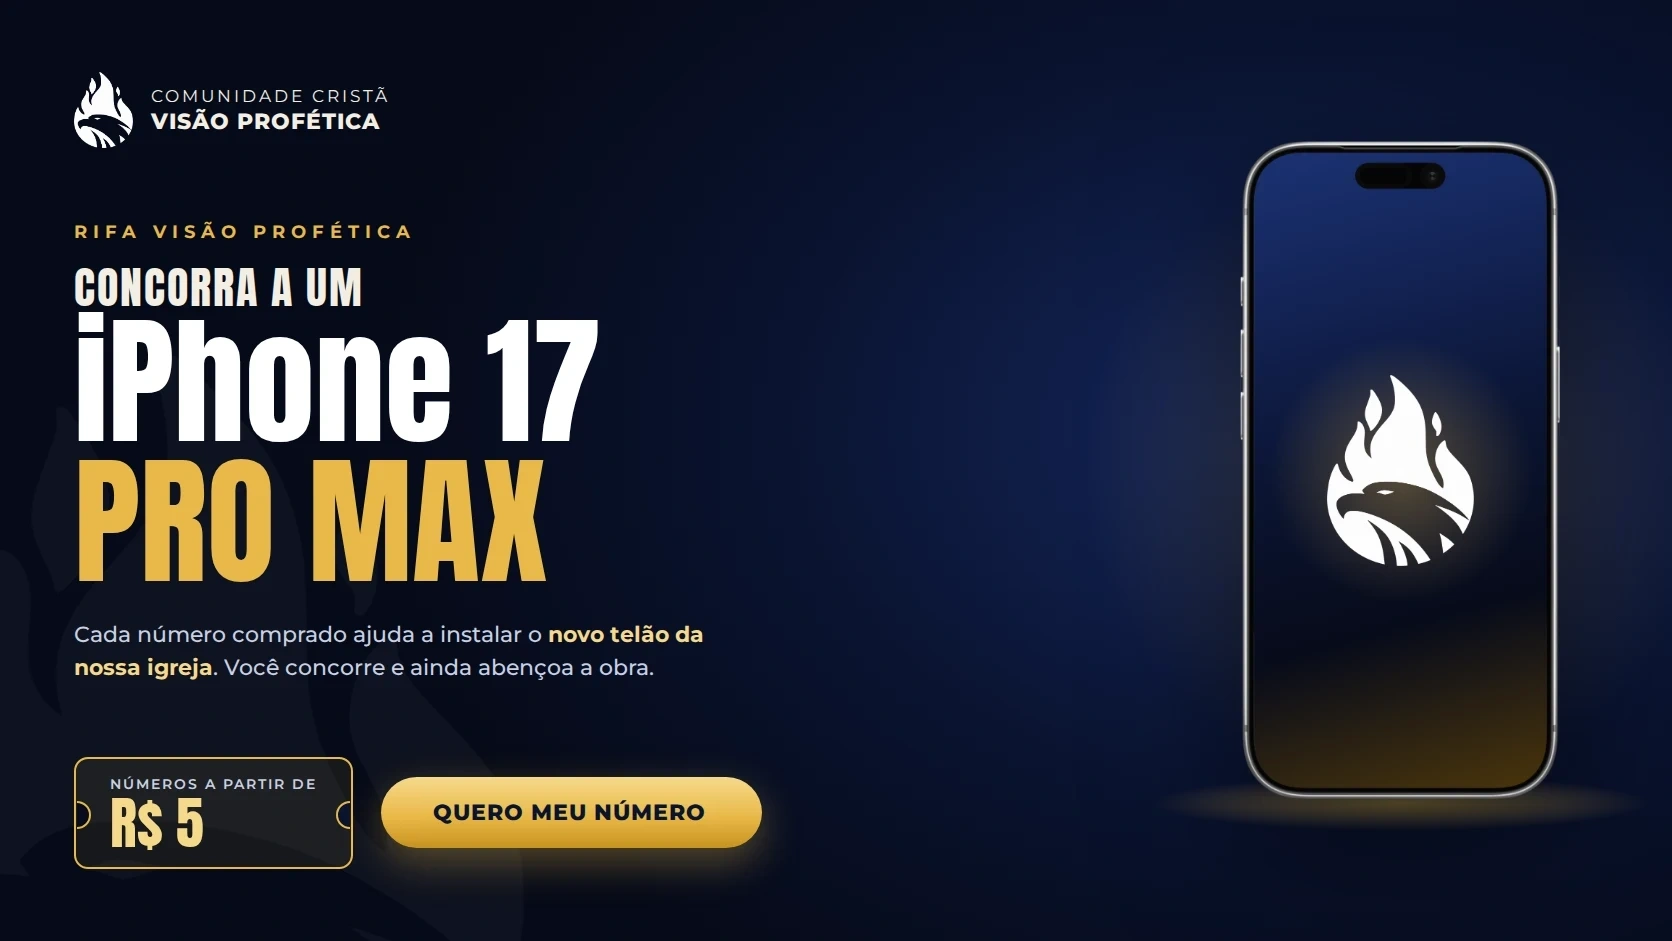
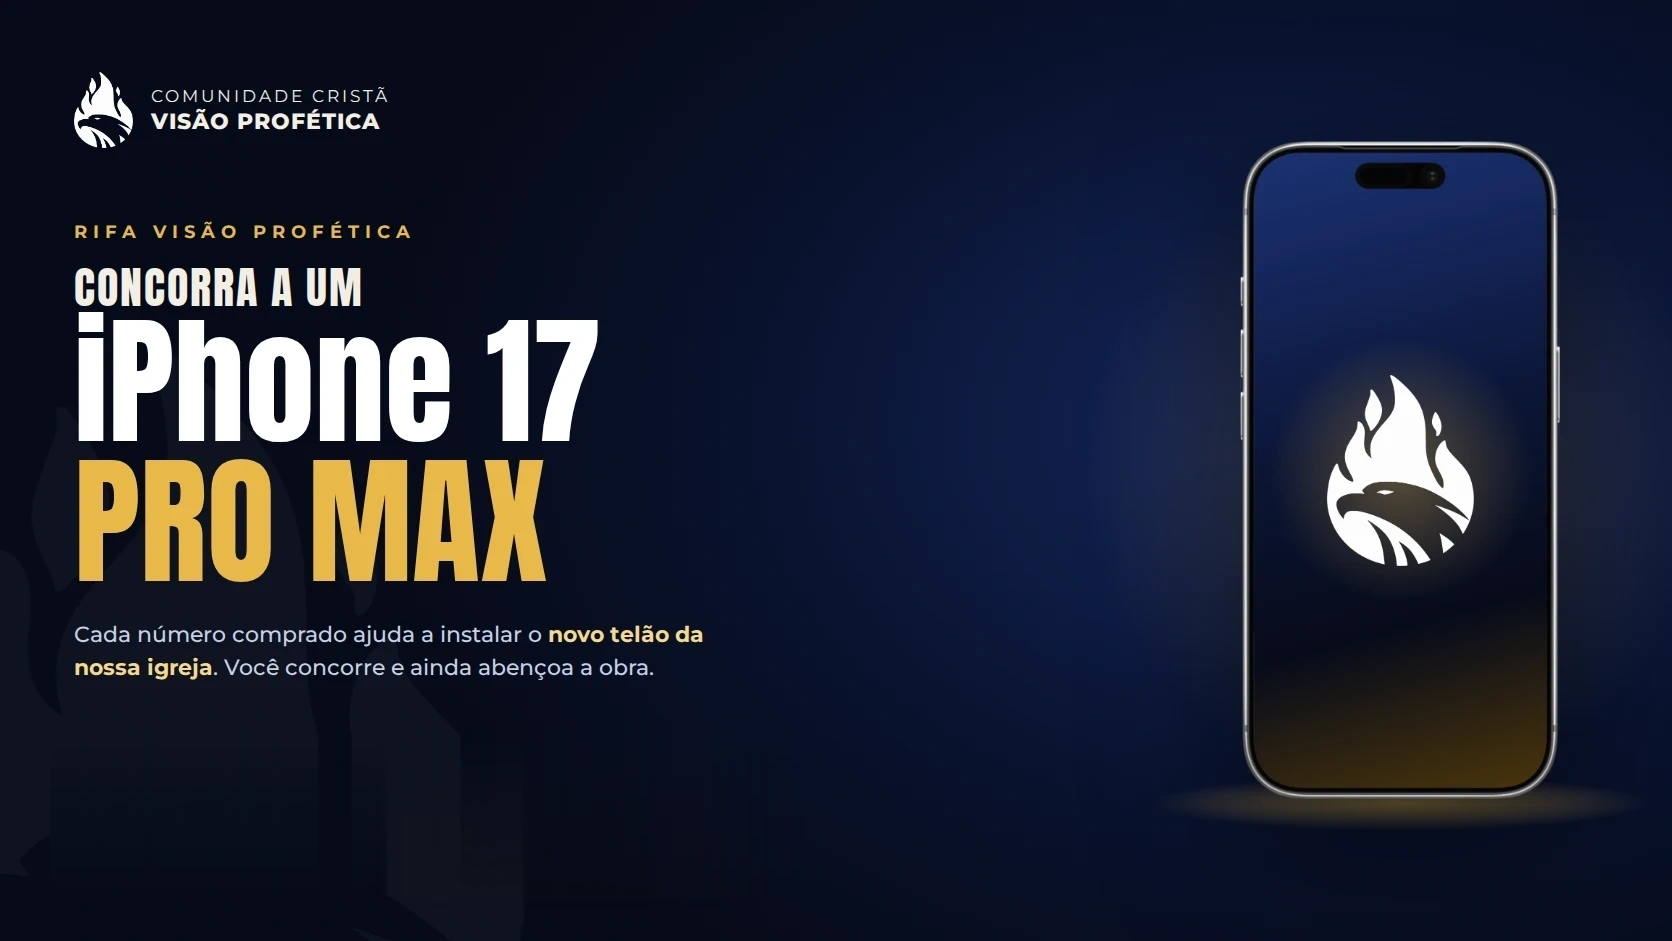
Página da rifa no mesmo formato dos eventos, arte sem selo e botão, e botão com seta para baixo
Claude-Session: https://claude.ai/code/session_012TS7R4wpcqeUVEw92u92ZL

Changed region(s): [[0.0311, 0.8013, 0.4665, 0.9245]]

diff --git a/app/rifa/page.tsx b/app/rifa/page.tsx
@@ -1,11 +1,12 @@
 import type { Metadata } from "next";
 import { notFound } from "next/navigation";
 import { SiteShell } from "../../components/SiteShell";
+import { PageHero } from "../../components/PageHero";
 import { RaffleForm } from "../../components/RaffleForm";
 import { formatDate } from "../../lib/content";
 import { RAFFLE_MAX_AMOUNT, RAFFLE_NUMBER_PRICE, RAFFLE_PACKAGES, formatMoney, formatNumber, raffleSettings, raffleStats, raffleWinner } from "../../lib/raffle";
 export const dynamic = "force-dynamic";
-export const metadata: Metadata = {title: "Rifa solidária do iPhone 17", description: "Concorra a um iPhone 17 e ajude a Comunidade Cristã Visão Profética a comprar o telão da igreja."};
+export const metadata: Metadata = {title: "Rifa do iPhone 17 Pro Max", description: "Concorra a um iPhone 17 Pro Max e ajude a Comunidade Cristã Visão Profética a comprar o telão da igreja."};
 
 export default async function RafflePage() {
   let data;
@@ -29,54 +30,44 @@ export default async function RafflePage() {
     ["Envie o comprovante", "Mande o comprovante pelo WhatsApp da igreja. Quando o pagamento é confirmado, seus números passam a valer."],
     ["Acompanhe o sorteio", settings.draw_date ? `O resultado sai pela Loteria Federal de ${drawDate}.` : `Ao atingir a meta de ${goal}, divulgamos a data do sorteio pela Loteria Federal.`],
   ];
+  const details = [["Número", `${formatMoney(RAFFLE_NUMBER_PRICE * 100)} cada`], ["Sorteio", settings.draw_date ? `Loteria Federal, ${drawDate}` : "Loteria Federal, data a divulgar"], ["Meta", goal]];
   return <SiteShell>
-    <section className="raffle-hero">
-      <h1 className="sr-only">Rifa Visão Profética: concorra a um {settings.prize}. Cada número ajuda a instalar o novo telão da igreja.</h1>
-      <div className="raffle-hero-banner">
-        <img src="/eventos/rifa-iphone-17.webp" width={1672} height={941} fetchPriority="high" alt={`Rifa Visão Profética: concorra a um ${settings.prize}. Números a partir de R$ 5. Cada número comprado ajuda a instalar o novo telão da igreja.`}/>
-        <a href="#comprar" className="raffle-hero-hotspot" aria-label={open ? "Quero meu número" : "Ver a rifa"}/>
-      </div>
-      <div className="raffle-hero-mobile container-shell">
-        {open ? <a href="#comprar" className="raffle-cta">Quero meu número</a> : <span className="event-status is-closed">Vendas encerradas</span>}
-      </div>
-    </section>
-
-    <section className="content-section">
-      <div className="container-shell">
+    <PageHero eyebrow="Rifa Visão Profética" title={`Rifa do ${settings.prize}`} description="Cada número comprado ajuda a instalar o novo telão da nossa igreja. Você concorre e ainda abençoa a obra."/>
+    <section className="content-section"><div className="container-shell event-detail">
+      <div className="event-detail-main">
         {winner && <div className="panel raffle-winner" role="status"><p className="eyebrow text-zinc-500">Resultado do sorteio</p><h2>Número sorteado: <span className="font-mono">{formatNumber(winner.number)}</span></h2><p className="body-copy">Parabéns, <strong>{winner.order.name.split(/\s+/)[0]}</strong>! Loteria Federal, 1º prêmio: {settings.result}. A equipe da igreja vai entrar em contato para a entrega do {settings.prize}.</p></div>}
         {settings.result && !winner && <div className="panel raffle-winner" role="status"><p className="eyebrow text-zinc-500">Resultado do sorteio</p><h2>Loteria Federal: {settings.result}</h2><p className="body-copy">A equipe está conferindo o número vencedor e publica o resultado em breve.</p></div>}
+        <img src="/eventos/rifa-iphone-17.webp" width={1672} height={941} fetchPriority="high" className="event-cover event-detail-cover raffle-cover" alt={`Arte da rifa: concorra a um ${settings.prize}. Cada número comprado ajuda a instalar o novo telão da igreja.`}/>
+        {open && <a href="#comprar" className="raffle-cta raffle-jump">Quero meu número <span aria-hidden="true">↓</span></a>}
+        <dl className="event-facts">{details.map(([label, value]) => <div key={label}><dt>{label}</dt><dd>{value}</dd></div>)}</dl>
 
         <div className="panel raffle-progress">
           <div className="raffle-progress-head">
-            <div><p className="eyebrow text-zinc-500">Meta do telão</p><p className="raffle-raised">{formatMoney(stats.paid_cents)} <span>de {formatMoney(settings.goal * 100)}</span></p></div>
+            <div><p className="eyebrow text-zinc-500">Meta do telão</p><p className="raffle-raised">{formatMoney(stats.paid_cents)} <span>de {goal}</span></p></div>
             <p className="raffle-progress-meta"><strong>{stats.paid_numbers.toLocaleString("pt-BR")}</strong> números confirmados</p>
           </div>
           <div className="raffle-bar" role="progressbar" aria-label="Arrecadação para o telão" aria-valuemin={0} aria-valuemax={settings.goal} aria-valuenow={Math.round(raised)}><span style={{width: `${progress}%`}}/></div>
           <p className="raffle-progress-note">Conta somente os pagamentos já confirmados pela equipe.</p>
         </div>
 
-        <div className="raffle-layout">
-          <div>
-            <h2 className="raffle-heading">Como participar</h2>
-            <ol className="raffle-steps">{steps.map(([title, text], index) => <li key={title}><span>{String(index + 1).padStart(2, "0")}</span><div><h3>{title}</h3><p>{text}</p></div></li>)}</ol>
+        <h2 className="raffle-heading mt-12">Como participar</h2>
+        <ol className="raffle-steps">{steps.map(([title, text], index) => <li key={title}><span>{String(index + 1).padStart(2, "0")}</span><div><h3>{title}</h3><p>{text}</p></div></li>)}</ol>
 
-            <h2 className="raffle-heading mt-14">Como será realizado o sorteio?</h2>
-            <div className="registration-about">
-              <p>Os números vão de <strong>00000</strong> a <strong>99999</strong>, distribuídos automaticamente e sem repetição. O sorteio será realizado assim que a arrecadação atingir <strong>{goal}</strong> em pagamentos confirmados, valor necessário para viabilizar o projeto de aquisição do telão da nossa igreja.</p>
-              <p>O ganhador será definido com base no <strong>1º prêmio da Loteria Federal</strong>, em uma data a ser divulgada após a confirmação do valor arrecadado. Ganhará quem possuir o número correspondente ao resultado oficial.</p>
-              <p>Caso o número sorteado não tenha sido vendido, será considerado o próximo número vendido acima dele, seguindo a sequência até encontrar um número válido. Após o 99999, a contagem retorna ao 00000.</p>
-              <p><strong>Importante:</strong> participarão do sorteio somente os números com pagamento confirmado. Reservas não pagas em até {settings.expire_hours} horas serão canceladas automaticamente, e os números voltarão a ficar disponíveis.</p>
-              <p>A data do sorteio será divulgada oficialmente assim que a meta de {goal} estiver integralmente confirmada.</p>
-              <p className="registration-about-closing">Obrigado por fazer parte dessa missão! ❤ Cada contribuição é uma semente para esse projeto, ajudando a nossa igreja a conquistar o telão e a ampliar o alcance da Palavra de Deus.</p>
-              <p className="registration-about-closing">Juntos, podemos transformar esse propósito em realidade!</p>
-            </div>
-          </div>
-          <aside className="raffle-aside" id="comprar">
-            {open ? <div className="panel event-registration"><div className="registration-intro"><span className="event-status is-open">Vendas abertas</span><h2 className="mt-4">Garanta seus números</h2><p>Depois de reservar, você vai para a página de pagamento com o Pix da igreja.</p></div><RaffleForm packages={RAFFLE_PACKAGES} price={RAFFLE_NUMBER_PRICE} max={RAFFLE_MAX_AMOUNT}/></div>
-              : <div className="panel p-8"><span className="event-status is-closed">Vendas encerradas</span><h2 className="mt-4 text-2xl font-bold">Vendas encerradas</h2><p className="body-copy mt-4">A venda de números não está disponível no momento. Se você já comprou, abra o link que enviamos para o seu e-mail para ver seus números.</p></div>}
-          </aside>
+        <div className="registration-about mt-12">
+          <h2>Como será realizado o sorteio?</h2>
+          <p>Os números vão de <strong>00000</strong> a <strong>99999</strong>, distribuídos automaticamente e sem repetição. O sorteio será realizado assim que a arrecadação atingir <strong>{goal}</strong> em pagamentos confirmados, valor necessário para viabilizar o projeto de aquisição do telão da nossa igreja.</p>
+          <p>O ganhador será definido com base no <strong>1º prêmio da Loteria Federal</strong>, em uma data a ser divulgada após a confirmação do valor arrecadado. Ganhará quem possuir o número correspondente ao resultado oficial.</p>
+          <p>Caso o número sorteado não tenha sido vendido, será considerado o próximo número vendido acima dele, seguindo a sequência até encontrar um número válido. Após o 99999, a contagem retorna ao 00000.</p>
+          <p><strong>Importante:</strong> participarão do sorteio somente os números com pagamento confirmado. Reservas não pagas em até {settings.expire_hours} horas serão canceladas automaticamente, e os números voltarão a ficar disponíveis.</p>
+          <p>A data do sorteio será divulgada oficialmente assim que a meta de {goal} estiver integralmente confirmada.</p>
+          <p className="registration-about-closing">Obrigado por fazer parte dessa missão! ❤ Cada contribuição é uma semente para esse projeto, ajudando a nossa igreja a conquistar o telão e a ampliar o alcance da Palavra de Deus.</p>
+          <p className="registration-about-closing">Juntos, podemos transformar esse propósito em realidade!</p>
         </div>
       </div>
-    </section>
+      <aside className="event-detail-aside" id="comprar">
+        {open ? <div className="panel event-registration"><div className="registration-intro"><span className="event-status is-open">Vendas abertas</span><h2 className="mt-4">Garanta seus números</h2><p>Depois de reservar, você vai para a página de pagamento com o Pix da igreja.</p></div><RaffleForm packages={RAFFLE_PACKAGES} price={RAFFLE_NUMBER_PRICE} max={RAFFLE_MAX_AMOUNT}/></div>
+          : <div className="panel p-8"><span className="event-status is-closed">Vendas encerradas</span><h2 className="mt-4 text-2xl font-bold">Vendas encerradas</h2><p className="body-copy mt-4">A venda de números não está disponível no momento. Se você já comprou, abra o link que enviamos para o seu e-mail para ver seus números.</p></div>}
+      </aside>
+    </div></section>
   </SiteShell>;
 }

diff --git a/app/globals.css b/app/globals.css
@@ -332,14 +332,6 @@ main .page-hero .text-zinc-400, main .bg-black .eyebrow, main .next-steps .text-
 }
 
 /* Rifa solidária do iPhone: arrecadação para o telão da igreja. */
-.raffle-hero { background: radial-gradient(circle at 78% 40%, #3a3b3f 0%, #111316 55%); color: #fff; border-bottom: 1px solid #32363d; overflow: hidden; }
-.raffle-hero-inner { display: grid; grid-template-columns: minmax(0,1.15fr) minmax(0,.85fr); gap: 32px; align-items: center; padding-block: clamp(48px, 7vw, 88px); }
-.raffle-hero .eyebrow { color: var(--accent); }
-.raffle-hero .display-title { font-size: clamp(2.3rem, 4.8vw, 4.4rem); }
-.raffle-hero-copy { margin-top: 24px; max-width: 620px; color: #c9ced5; font-size: 1.0625rem; line-height: 1.8; }
-.raffle-hero-actions { display: flex; flex-wrap: wrap; align-items: center; gap: 16px 24px; margin-top: 32px; color: #c9ced5; font-size: .9375rem; }
-.raffle-hero-actions strong { color: #fff; }
-.raffle-hero-art { width: 100%; max-width: 420px; justify-self: center; filter: drop-shadow(0 30px 50px rgba(0,0,0,.5)); }
 .raffle-winner { padding: clamp(22px, 3vw, 32px); margin-bottom: 24px; border-color: #b2d7bf; background: #f1faf4; }
 .raffle-winner h2 { margin-top: 8px; font-size: clamp(1.5rem, 3vw, 2.2rem); font-weight: 800; letter-spacing: -.02em; }
 .raffle-winner p:last-child { margin-top: 8px; }
@@ -352,14 +344,12 @@ main .page-hero .text-zinc-400, main .bg-black .eyebrow, main .next-steps .text-
 .raffle-bar { height: 14px; margin-top: 18px; border-radius: 999px; background: #eceff2; overflow: hidden; }
 .raffle-bar span { display: block; height: 100%; min-width: 6px; border-radius: inherit; background: linear-gradient(90deg, #17191c, #6b6454); }
 .raffle-progress-note { margin-top: 10px; font-size: .8125rem; color: var(--muted); }
-.raffle-layout { display: grid; grid-template-columns: minmax(0,1.2fr) minmax(0,1fr); gap: 48px; align-items: start; margin-top: 48px; }
 .raffle-heading { font-size: 1.5rem; font-weight: 800; letter-spacing: -.01em; }
 .raffle-steps { display: grid; margin-top: 16px; border-top: 1px solid var(--line); }
 .raffle-steps li { display: grid; grid-template-columns: 44px minmax(0,1fr); gap: 12px; padding-block: 18px; border-bottom: 1px solid var(--line); }
 .raffle-steps li > span { font-size: .8125rem; font-weight: 800; color: #8a8474; letter-spacing: .08em; padding-top: 3px; }
 .raffle-steps h3 { font-size: 1.0625rem; font-weight: 700; }
 .raffle-steps p { margin-top: 4px; color: var(--muted); line-height: 1.7; }
-.raffle-aside { position: sticky; top: 112px; scroll-margin-top: 112px; }
 .raffle-form fieldset { border: 0; margin: 0; padding: 0; min-width: 0; }
 .raffle-form legend { font-size: .875rem; font-weight: 600; color: #363b42; margin-bottom: 12px; }
 .raffle-packages { display: grid; grid-template-columns: repeat(3, minmax(0,1fr)); gap: 10px; }
@@ -373,12 +363,6 @@ main .page-hero .text-zinc-400, main .bg-black .eyebrow, main .next-steps .text-
 .raffle-custom > span { position: absolute; left: 1rem; top: 50%; transform: translateY(-50%); color: var(--muted); font-weight: 600; pointer-events: none; }
 .raffle-custom input { padding-left: 2.75rem; }
 .raffle-summary { margin-top: 16px; padding: 12px 14px; border-radius: 10px; background: #f4f5f7; font-size: .9375rem; }
-.raffle-banner { display: grid; grid-template-columns: minmax(0,1fr) 220px; gap: 24px; align-items: center; margin-bottom: 40px; padding: clamp(24px, 4vw, 40px); border-radius: var(--radius); background: radial-gradient(circle at 85% 50%, #3a3b3f 0%, #111316 60%); color: #fff; overflow: hidden; }
-.raffle-banner .eyebrow { color: var(--accent); }
-.raffle-banner h2 { margin-top: 10px; font-size: clamp(1.75rem, 3.4vw, 2.6rem); font-weight: 800; letter-spacing: -.03em; line-height: 1.1; }
-.raffle-banner p:not(.eyebrow) { margin-top: 12px; max-width: 560px; color: #c9ced5; line-height: 1.7; }
-.raffle-banner .btn-light { margin-top: 22px; }
-.raffle-banner-art { width: 100%; filter: drop-shadow(0 20px 36px rgba(0,0,0,.5)); }
 .raffle-order .ticket { max-width: 620px; }
 .raffle-numbers { display: flex; flex-wrap: wrap; justify-content: center; gap: 8px; margin-top: 12px; }
 .raffle-numbers li { padding: 8px 12px; border: 1px solid var(--line); border-radius: 8px; background: #f7f8f9; font-family: ui-monospace, SFMono-Regular, Menlo, Consolas, monospace; font-size: 1.125rem; font-weight: 700; letter-spacing: .08em; }
@@ -392,19 +376,9 @@ main .page-hero .text-zinc-400, main .bg-black .eyebrow, main .next-steps .text-
 .admin-metric-money { font-size: 1.75rem !important; }
 .raffle-admin-numbers { margin-top: 14px; padding: 10px 12px; border-radius: 8px; background: #f4f5f7; font-family: ui-monospace, SFMono-Regular, Menlo, Consolas, monospace; font-size: .875rem; letter-spacing: .04em; overflow-wrap: anywhere; }
 .raffle-admin-winner { display: grid; gap: 4px; margin-top: 20px; padding: 14px 18px; border: 1px solid #b2d7bf; border-radius: 8px; background: #f1faf4; color: #185332; }
-@media (max-width: 1000px) { .raffle-hero-inner, .raffle-layout { grid-template-columns: 1fr; } .raffle-hero-art { max-width: 300px; } .raffle-aside { position: static; } }
-@media (max-width: 640px) { .raffle-banner { grid-template-columns: 1fr; } .raffle-banner-art { display: none; } .raffle-banner .btn-light { width: 100%; } .raffle-hero-art { max-width: 220px; } .raffle-hero-actions .btn-light { width: 100%; } }
 @media print { .raffle-pay .btn-primary, .raffle-pix-copy button { display: none !important; } }
 .admin-raffle-thumb { display: grid !important; place-items: center; background: radial-gradient(circle at 70% 40%, #3a3b3f, #111316) !important; color: #fff; font-size: 1.75rem; font-weight: 800; letter-spacing: -.02em; }
 
-/* Arte oficial da rifa: o botão "Quero meu número" desenhado na imagem é clicável. */
-.raffle-hero { background: #070b1c; border-bottom: 1px solid #1c2440; }
-.raffle-hero-banner { position: relative; max-width: 960px; margin-inline: auto; }
-.raffle-hero-banner img { display: block; width: 100%; height: auto; -webkit-mask-image: linear-gradient(90deg, transparent 0, #000 3%, #000 92%, transparent 100%); mask-image: linear-gradient(90deg, transparent 0, #000 3%, #000 92%, transparent 100%); }
-.raffle-hero-hotspot { position: absolute; left: 22.2%; top: 81.8%; width: 23.9%; height: 9.2%; border-radius: 999px; transition: box-shadow .18s ease, background .18s ease; }
-.raffle-hero-hotspot:hover { background: rgba(255,255,255,.08); box-shadow: 0 0 0 3px rgba(232,185,74,.45); }
-.raffle-hero-hotspot:focus-visible { outline: 3px solid #e8b94a; outline-offset: 3px; }
-.raffle-hero-mobile { display: none; padding-block: 4px 24px; }
 .raffle-cta { display: inline-flex; align-items: center; justify-content: center; gap: .6rem; width: 100%; min-height: 54px; padding: .9rem 1.4rem; border-radius: 999px; background: linear-gradient(180deg, #f3cb62, #e0a93a); color: #0b1330; font-weight: 800; letter-spacing: .06em; text-transform: uppercase; box-shadow: 0 10px 28px -10px rgba(232,185,74,.7); }
 .raffle-event-banner { display: grid; grid-template-columns: minmax(0,1fr); align-items: stretch; margin-bottom: 40px; border-radius: var(--radius); overflow: hidden; background: linear-gradient(90deg, #070b1c 0%, #0a1433 100%); color: #fff; box-shadow: 0 18px 40px -24px rgba(17,19,22,.55); transition: box-shadow .18s ease; }
 .raffle-event-banner:hover { box-shadow: 0 22px 48px -22px rgba(17,19,22,.7); }
@@ -416,4 +390,9 @@ main .page-hero .text-zinc-400, main .bg-black .eyebrow, main .next-steps .text-
 .raffle-event-art { display: none; width: 100%; height: 100%; min-height: 0; object-fit: cover; object-position: 100% center; -webkit-mask-image: linear-gradient(90deg, transparent 25%, #000 60%); mask-image: linear-gradient(90deg, transparent 25%, #000 60%); }
 @media (min-width: 721px) { .raffle-event-banner { grid-template-columns: minmax(0,1fr) 300px; } .raffle-event-art { display: block; } }
 @media (max-width: 720px) { .raffle-event-text .raffle-cta { width: 100%; } }
-@media (max-width: 720px) { .raffle-hero-mobile { display: block; } }
+.raffle-cover { aspect-ratio: 1672/941; object-fit: cover; }
+.event-detail-main .raffle-progress { margin-bottom: 0; }
+.raffle-jump { margin-top: 20px; }
+.raffle-jump span { font-size: 1.15em; line-height: 1; }
+.event-detail-aside { scroll-margin-top: 112px; }
+@media (min-width: 1001px) { .raffle-jump { width: auto; padding-inline: 2.2rem; } }
